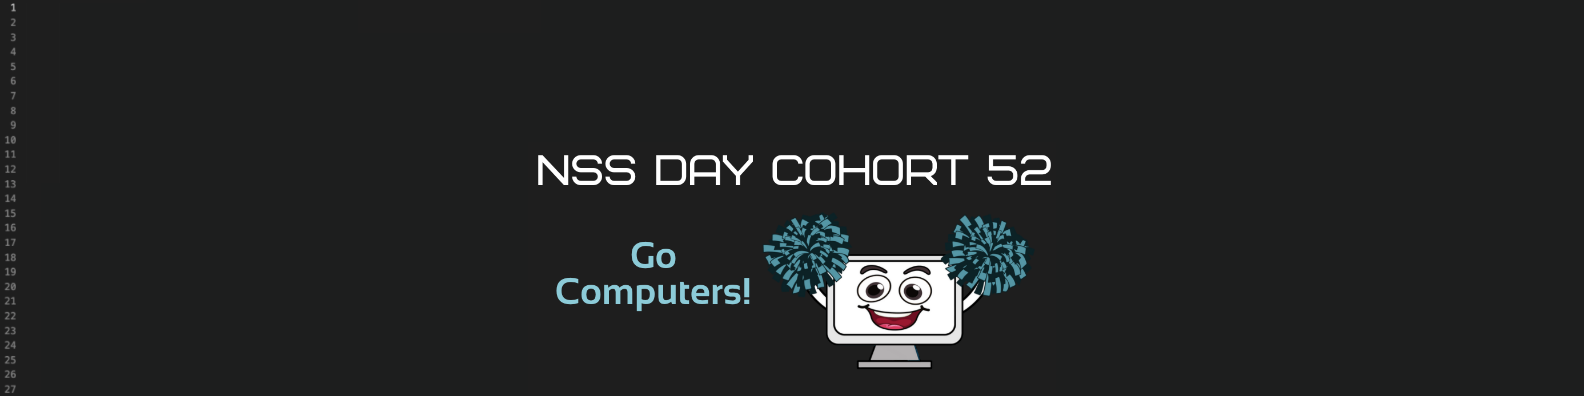
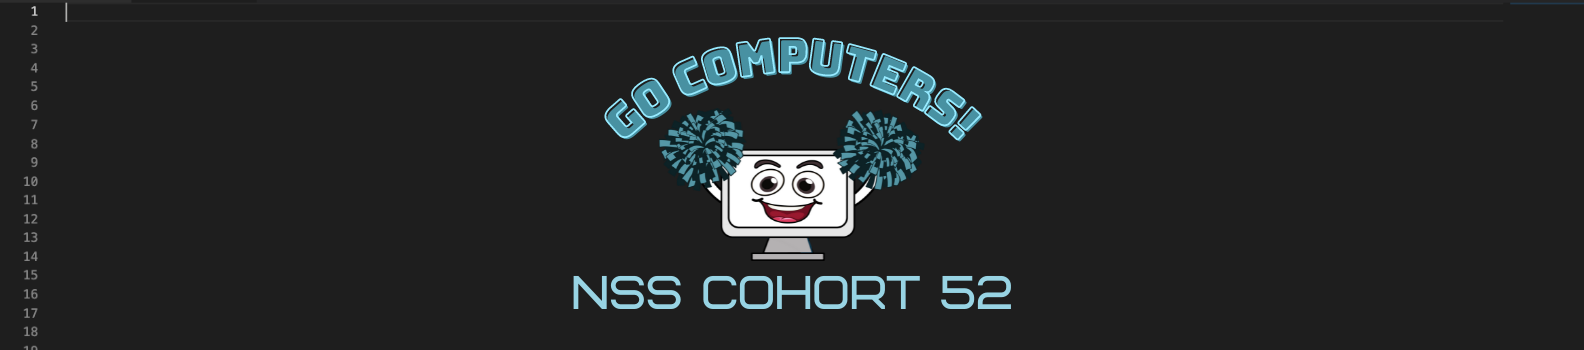
styling changes, plus fixed a couple of personal website links

diff --git a/styles/main.css b/styles/main.css
@@ -1,13 +1,12 @@
 p {
-  font-family: 'Barlow', sans-serif;
+    font-family: 'Barlow', sans-serif;
 }
 
 html, body {
     max-width: 100%;
     overflow-x: hidden;
-    background: url("../images/C52Background.png") fixed no-repeat;
     background-size: 100%;
-    background-color: black;
+    background-color: #1E1E1E;
 }
 
 blockquote{
@@ -24,6 +23,7 @@ blockquote{
 .navbar{
     background-color: rgb(55, 55, 56);
     padding: 20px;
+    height: 120px;
 }
 .navbar.navbar-expand-lg.navbar-light.bg-light.fixed-top{
     background: white !important;
@@ -32,7 +32,7 @@ blockquote{
     display: flex;
 }
 .nav-spacing {
-  margin-right: 2em;
+    margin-right: 2em;
 }
 
 #cohort22{
@@ -67,12 +67,13 @@ blockquote{
 
 .jumbotron.jumbotron-fluid{
     background: none;
-   }
+    padding-top: 120px;
+}
+
 .jumbotron.jumbotron-fluid img{
     background: none;
     width:100%;
-    margin-top: -80px;
-   }
+}
 
 main {
     margin-bottom: 20px;
@@ -80,7 +81,7 @@ main {
     width: 100%;
     overflow-y: hidden;
     overflow-x: hidden;
-  }
+}
 
 .row{
     justify-content: center;
@@ -93,9 +94,9 @@ main {
 }
 
 .col-md-3.cohortMems{
-    border: 1px solid lightgray;
+    border: 1px solid rgb(28, 28, 28);
     border-radius:10px;
-    box-shadow: 2px 2px 2px lightgray;
+    box-shadow: 2px 2px 2px rgb(23, 23, 23);
     margin: 10px;
     margin-bottom: 25px;
     background: white;
@@ -137,42 +138,42 @@ main {
 [class*="col-"] {
     padding-right: 0;
     padding-left: 0;
-  }
+}
 
 .modal-body{
     display: block;
-  }
+}
 
-  .studentContact{
-      text-align: center;
-      display: flex;
-      justify-content: space-evenly;
-      -webkit-justify-content: space-evenly;
-      margin-bottom: .75rem;
-  }
+.studentContact{
+    text-align: center;
+    display: flex;
+    justify-content: space-evenly;
+    -webkit-justify-content: space-evenly;
+    margin-bottom: .75rem;
+}
 
-  .contactIcons{
-      color: #238193;
-  }
-  .contactIcons:hover{
-      transform: scale(1.2);
-  }
+.contactIcons{
+    color: #238193;
+}
+.contactIcons:hover{
+    transform: scale(1.2);
+}
 
-  .modal-header{
+.modal-header{
     background-color: lightgray!important;
     color: #238193;
-  }
+}
 
-  .modal-body img{
+.modal-body img{
     width: 50%;
     height: 50%;
     box-shadow: 3px 3px 5px #cacaca;
     border-radius: 10px;
-  }
+}
 
-  .backButton{
-      margin-bottom: 1.5rem;
-  }
+.backButton{
+    margin-bottom: 1.5rem;
+}
 
 .navbar.navbar-light.bg-light.footer{
     margin-top:10px;
@@ -206,57 +207,106 @@ button{
 @media (min-width: 992px) and (max-width: 1200px){
     .fa-3x{
         font-size: 2.5em!important;
-      }
+    }
 }
 
 @media (min-width: 768px) and (max-width: 991px){
     .fa-3x{
         font-size: 2em!important;
-      }    
+    }    
 }
 
 
-@media (max-width: 900px) {
+@media (max-width: 960px) {
 
     /* body {
         background: url("../assets/images/bg.jpg") repeat;
     } */
+    .navbar{
+        height: auto;
+    }
+
+    #cohort22{
+        font-size: 1.75em;
+    }
+
+    .jumbotron.jumbotron-fluid{
+        padding-top: 100px;
+    }
+
     .jumbotron.jumbotron-fluid img{
         background: white;
-        margin-top:30px;
-       }
-       .jumbotron.jumbotron-fluid.sm-width{
+    }
+    
+    .jumbotron.jumbotron-fluid.sm-width{
         width: 100%;
     }
-       .header-text{
+    
+    .header-text{
         margin: 0 auto;
         height: 30px;
-       }
-       .header-text h2{
+    }
+    
+    .header-text h2{
         font-size: 1.5em;
         margin-top: -10px;
-       }
-       .modal-body{
+    }
+    
+    .modal-body{
         display: block;
-      }
-      .modal-content {
+    }
+    
+    .modal-content {
         width: 100%;
     }
-       .modal-body img{
+    
+    .modal-body img{
         width: 100%;
-      }
-      main {
+    }
+    
+    main {
         margin-bottom: 100px;
         margin-top: -50px;
         width: 100%
-      }
-      .navbar-brand img{
+    }
+    
+    .navbar-brand img{
         padding-right: none;
-      }
+    }
 
-      .techs{
+    .techs{
         width: 80px;
         margin: 20px 10px;
-      }
+    }
     
+}
+@media (max-width: 680px) {
+
+    #cohort22{
+        font-size: 1.5em;
+    }
+
+    .jumbotron.jumbotron-fluid{
+        padding-top: 100px;
+    }
+    
+}
+
+@media (max-width: 606px) {
+    .jumbotron.jumbotron-fluid{
+        padding-top: 25%;
+    }
+    
+}
+
+@media (max-width: 375px) {
+    
+    #cohort22{
+        font-size: 1.3em;
+    }
+    .navbar{
+        padding: 10px
+    }
+
+   
 }

diff --git a/index.html b/index.html
@@ -58,7 +58,7 @@
 
             <div class="carousel-inner">
                 <div class="carousel-item active">
-                    <img class="d-block w-100" src="images/C52Banner.png" alt="C52 - Go Computers!">
+                    <img class="d-block w-100 carousel-image" src="images/C52Banner.png" alt="C52 - Go Computers!">
                 </div>
 
             </div>
